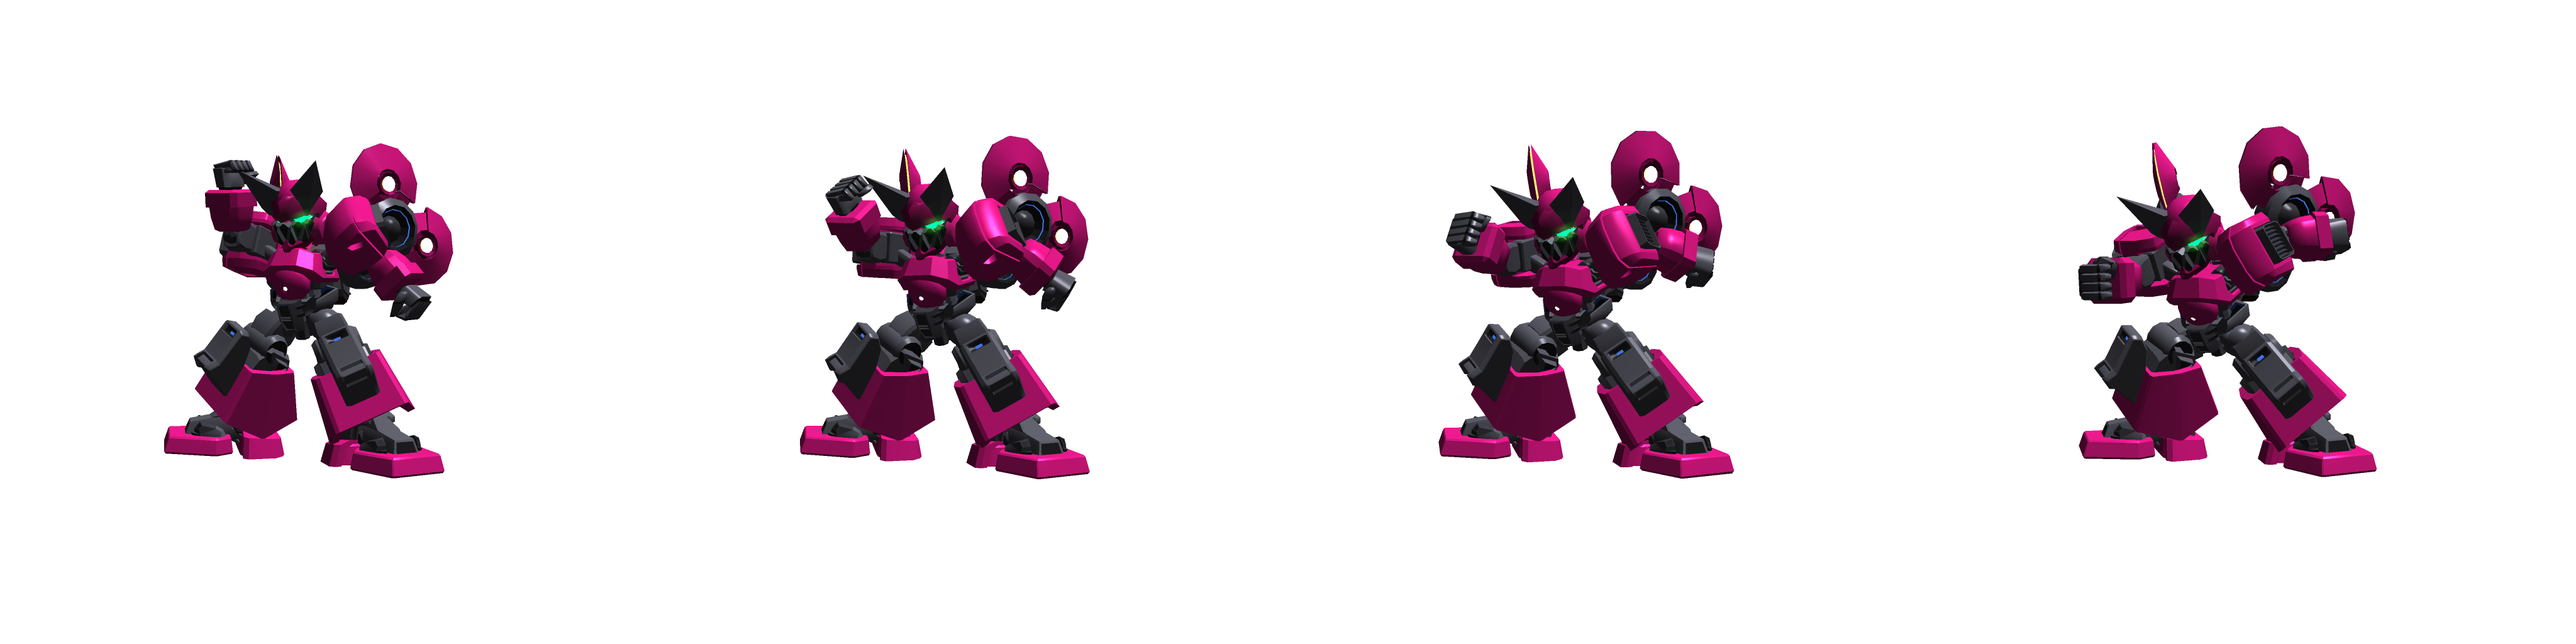
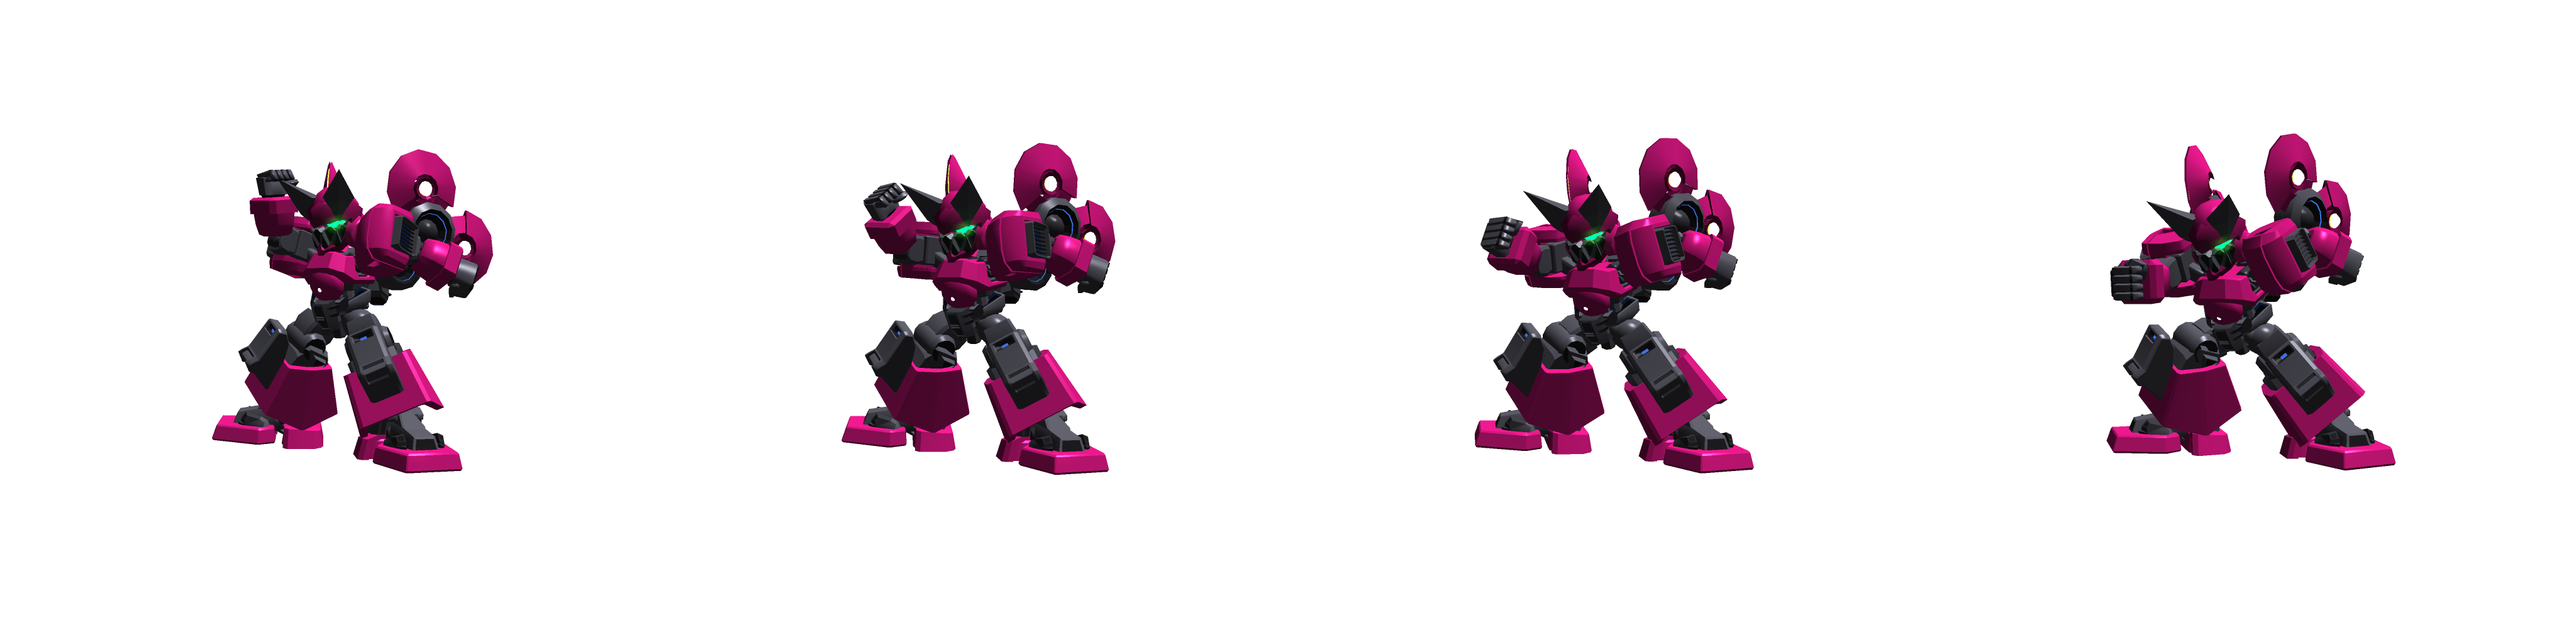
ネオランドーザの攻撃モーション画像を大幅変更

diff --git a/src/js/game/td-scenes/battle/animation/state-history/battle/attack/lightning-dozer.js b/src/js/game/td-scenes/battle/animation/state-history/battle/attack/lightning-dozer.js
@@ -101,14 +101,13 @@ type AttackResult = NormalHit | CriticalHit;
  */
 function attack(param: LightningDozerBattleAnimationParam<AttackResult>): Animate {
   return all(
-    delay(800)
-      .chain(param.attackerSprite.charge())
-      .chain(delay(50))
+    param.attackerSprite.charge()
+      .chain(delay(600))
       .chain(param.attackerSprite.armHammer())
       .chain(delay(2000))
       .chain(param.attackerSprite.hmToStand()),
 
-    delay(1100)
+    delay(900)
       .chain(
         param.defenderTD.damageIndicator.popUp(param.result.damage),
         param.defenderSprite.knockBack(),
@@ -127,12 +126,12 @@ function attack(param: LightningDozerBattleAnimationParam<AttackResult>): Animat
 function guard(param: LightningDozerBattleAnimationParam<Guard>): Animate {
   return all(
     param.attackerSprite.charge()
-      .chain(delay(400))
+      .chain(delay(600))
       .chain(param.attackerSprite.armHammer())
       .chain(delay(2000))
       .chain(param.attackerSprite.hmToStand()),
 
-    delay(800)
+    delay(900)
       .chain(
         param.defenderTD.damageIndicator.popUp(param.result.damage),
         param.defenderSprite.guard(),
@@ -151,12 +150,12 @@ function guard(param: LightningDozerBattleAnimationParam<Guard>): Animate {
 function miss(param: LightningDozerBattleAnimationParam<Miss>): Animate {
   return all(
     param.attackerSprite.charge()
-      .chain(delay(400))
+      .chain(delay(600))
       .chain(param.attackerSprite.armHammer())
       .chain(delay(1000))
       .chain(param.attackerSprite.hmToStand()),
 
-    delay(800)
+    delay(900)
       .chain(param.defenderSprite.avoid())
       .chain(delay(2000))
       .chain(param.defenderSprite.avoidToStand()),
@@ -175,12 +174,12 @@ type DownResult = NormalHit | Guard | CriticalHit;
 function down(param: LightningDozerBattleAnimationParam<DownResult>): Animate {
   return all(
     param.attackerSprite.charge()
-      .chain(delay(400))
+      .chain(delay(600))
       .chain(param.attackerSprite.armHammer())
       .chain(delay(2000))
       .chain(param.attackerSprite.hmToStand()),
 
-    delay(800)
+    delay(900)
       .chain(
         param.defenderTD.damageIndicator.popUp(param.result.damage),
         param.defenderSprite.down(),

diff --git a/src/js/game-object/armdozer/lightning-dozer/animation/arm-hammer.js b/src/js/game-object/armdozer/lightning-dozer/animation/arm-hammer.js
@@ -17,7 +17,7 @@ export function armHammer(model: LightningDozerModel): Animate {
     model.animation.type = 'HM_ATTACK';
     model.animation.frame = 0;
   }).chain(all(
-    tween(model.animation, t => t.to({frame: 1}, 100)),
-    tween(model.position, t => t.to({x: '-20'}, 100))
+    tween(model.animation, t => t.to({frame: 1}, 150)),
+    tween(model.position, t => t.to({x: '-40'}, 150))
   ));
 }

diff --git a/src/js/game-object/armdozer/lightning-dozer/animation/hm-to-stand.js b/src/js/game-object/armdozer/lightning-dozer/animation/hm-to-stand.js
@@ -14,7 +14,7 @@ import {all} from "../../../../animation/all";
  */
 export function hmToStand(model: LightningDozerModel): Animate {
   return all(
-    tween(model.position, t => t.to({x: '+20'}, 400)),
+    tween(model.position, t => t.to({x: '+40'}, 400)),
 
     process(() => {
       model.animation.type = 'HM_TO_STAND';
